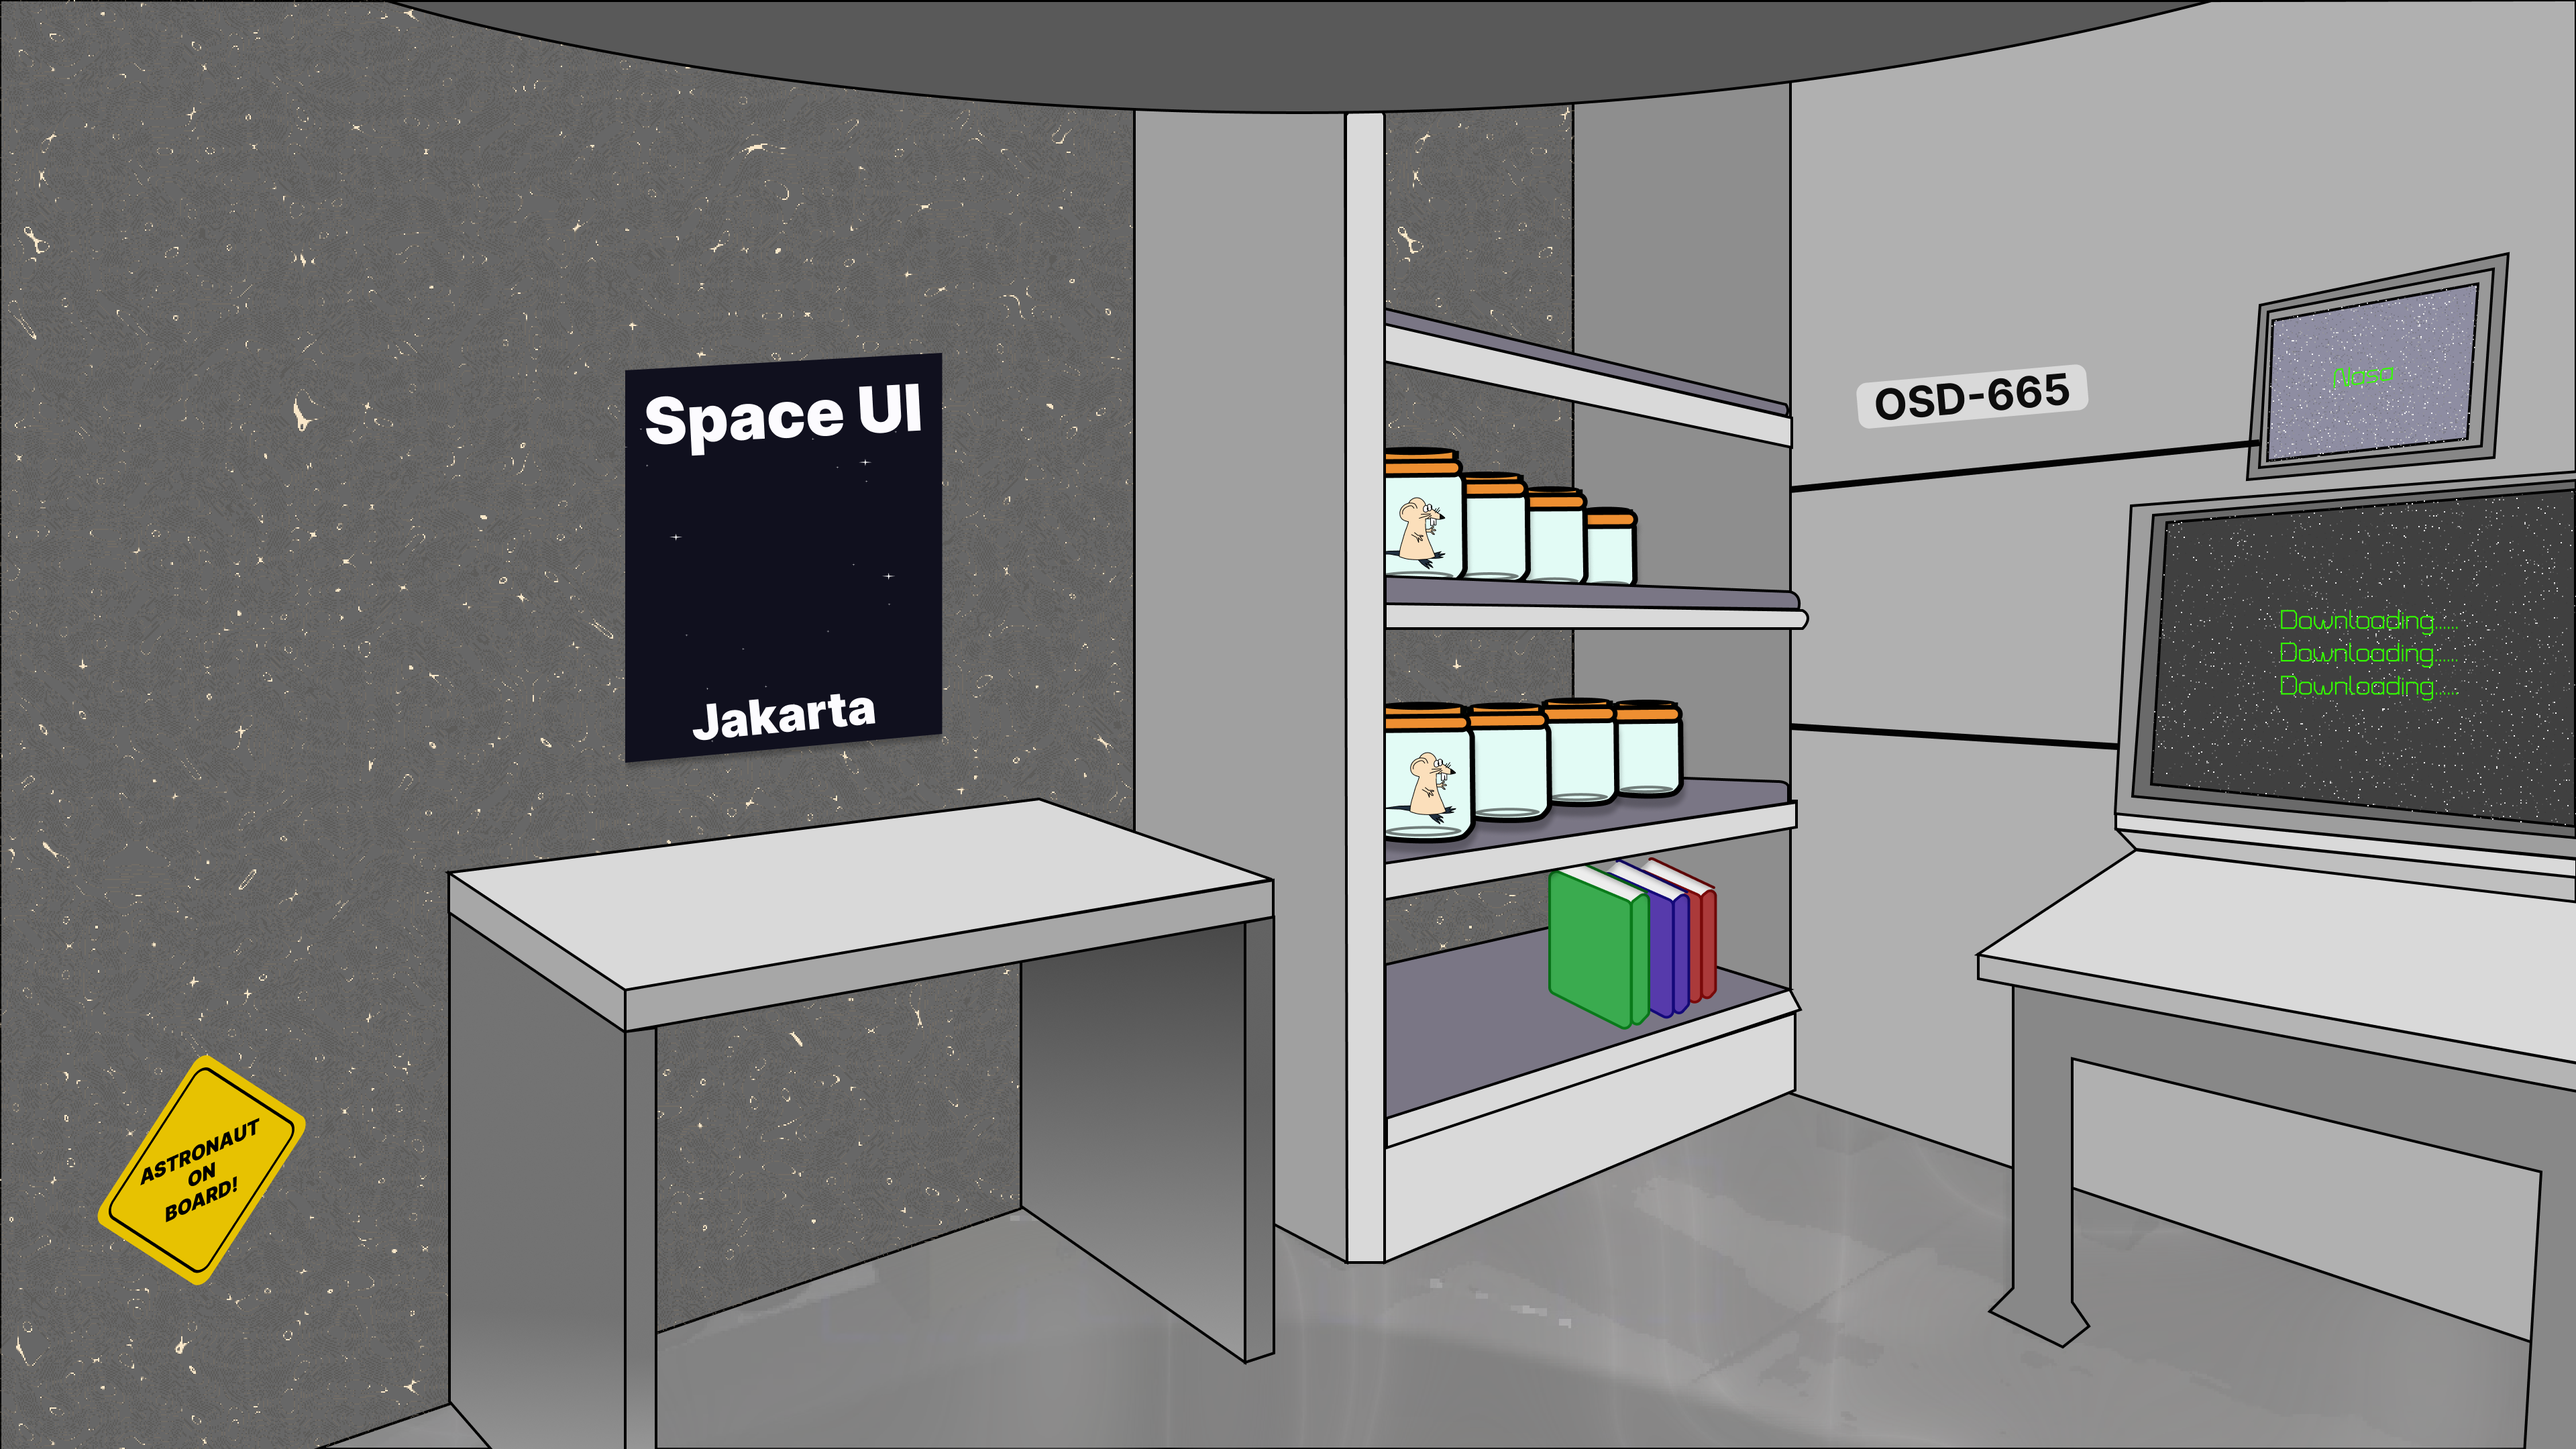
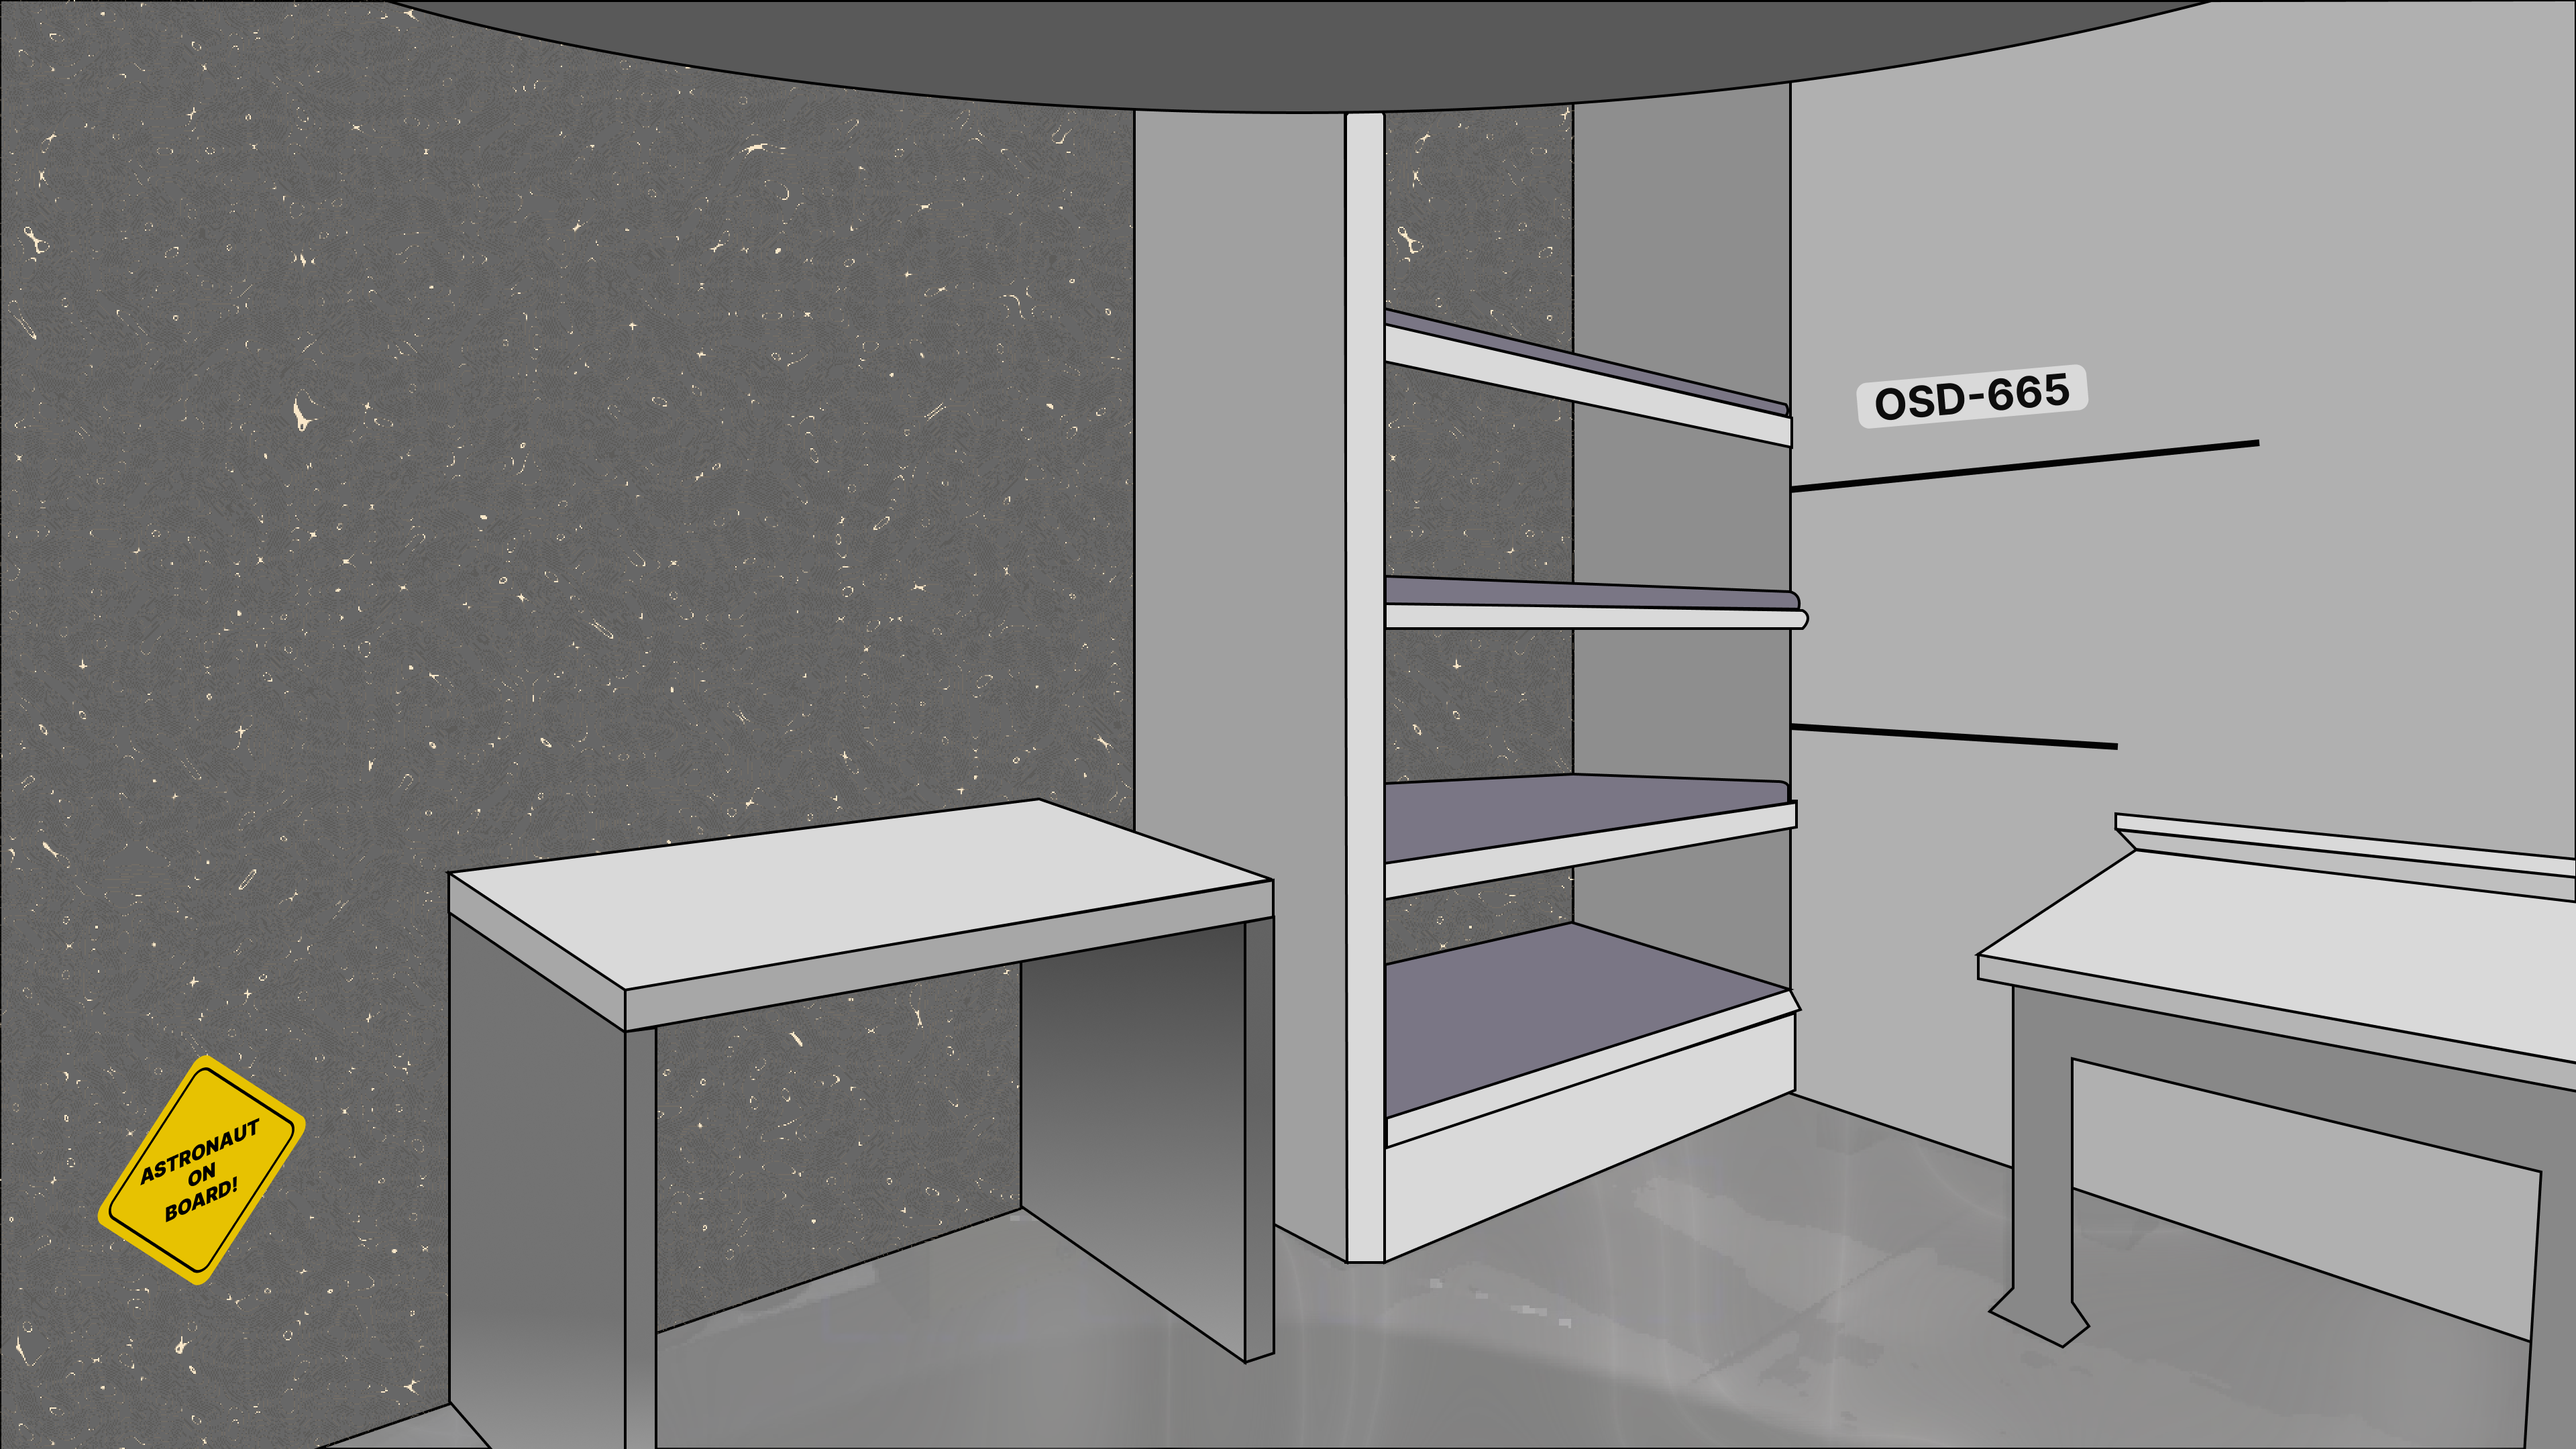
Fix 665 bg and transition

diff --git a/client/app/routes/osd-665.tsx b/client/app/routes/osd-665.tsx
@@ -55,7 +55,7 @@ export default function OSD665() {
                     <img
                         id="jars"
                         src={jars}
-                        className="absolute top-[30%] left-[53%] w-[13%] clickable cursor-pointer"
+                        className="absolute top-[30%] left-[53.5%] w-[13%] clickable cursor-pointer"
                         onClick={() => setShowSamples(true)}
                     />
 
@@ -81,9 +81,11 @@ export default function OSD665() {
                     />
 
 
+                <AnimatePresence>
                     {showSamples && (
-                        <SampleWindow setShowSamples={setShowSamples} samples={samples} />
+                        <SampleWindow setShow={setShowSamples} data={samples} />
                     )}
+                </AnimatePresence>
                 </motion.div>
             </AnimatePresence>
         </>
